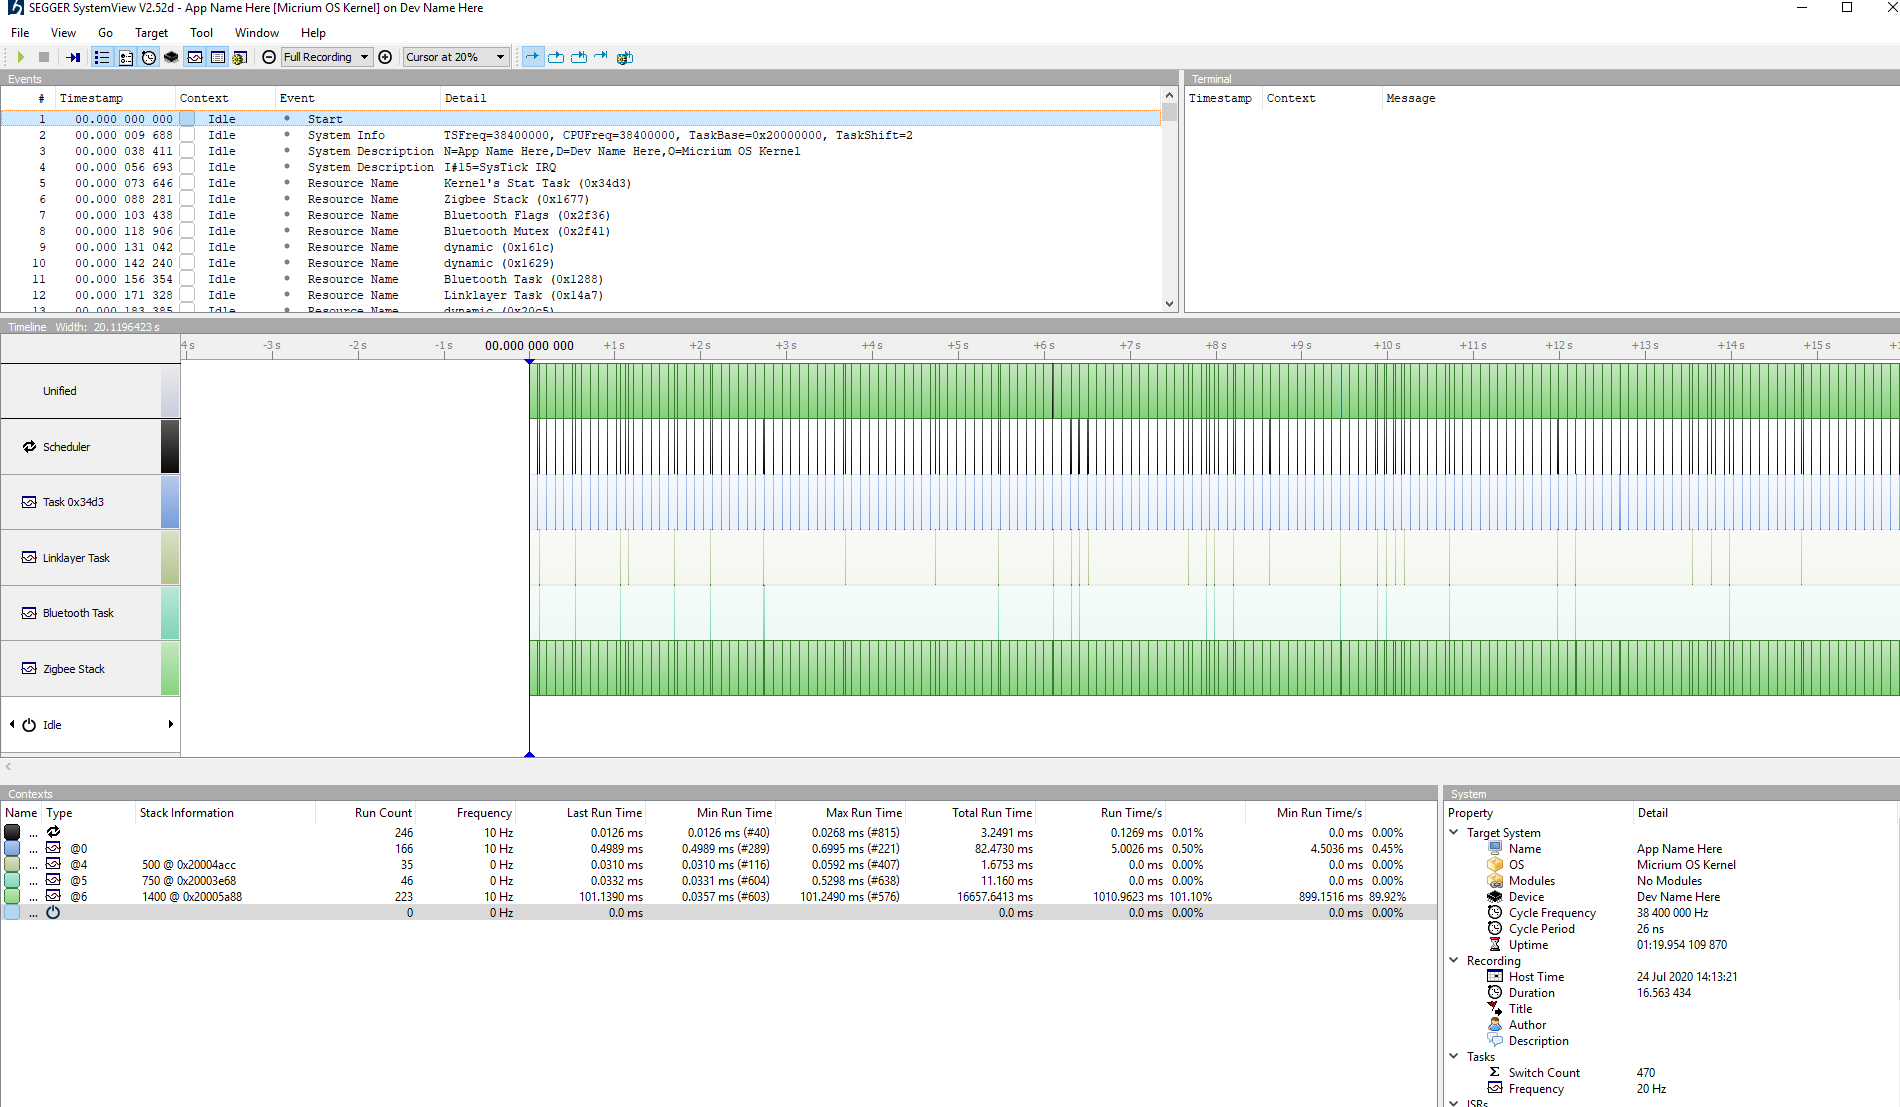
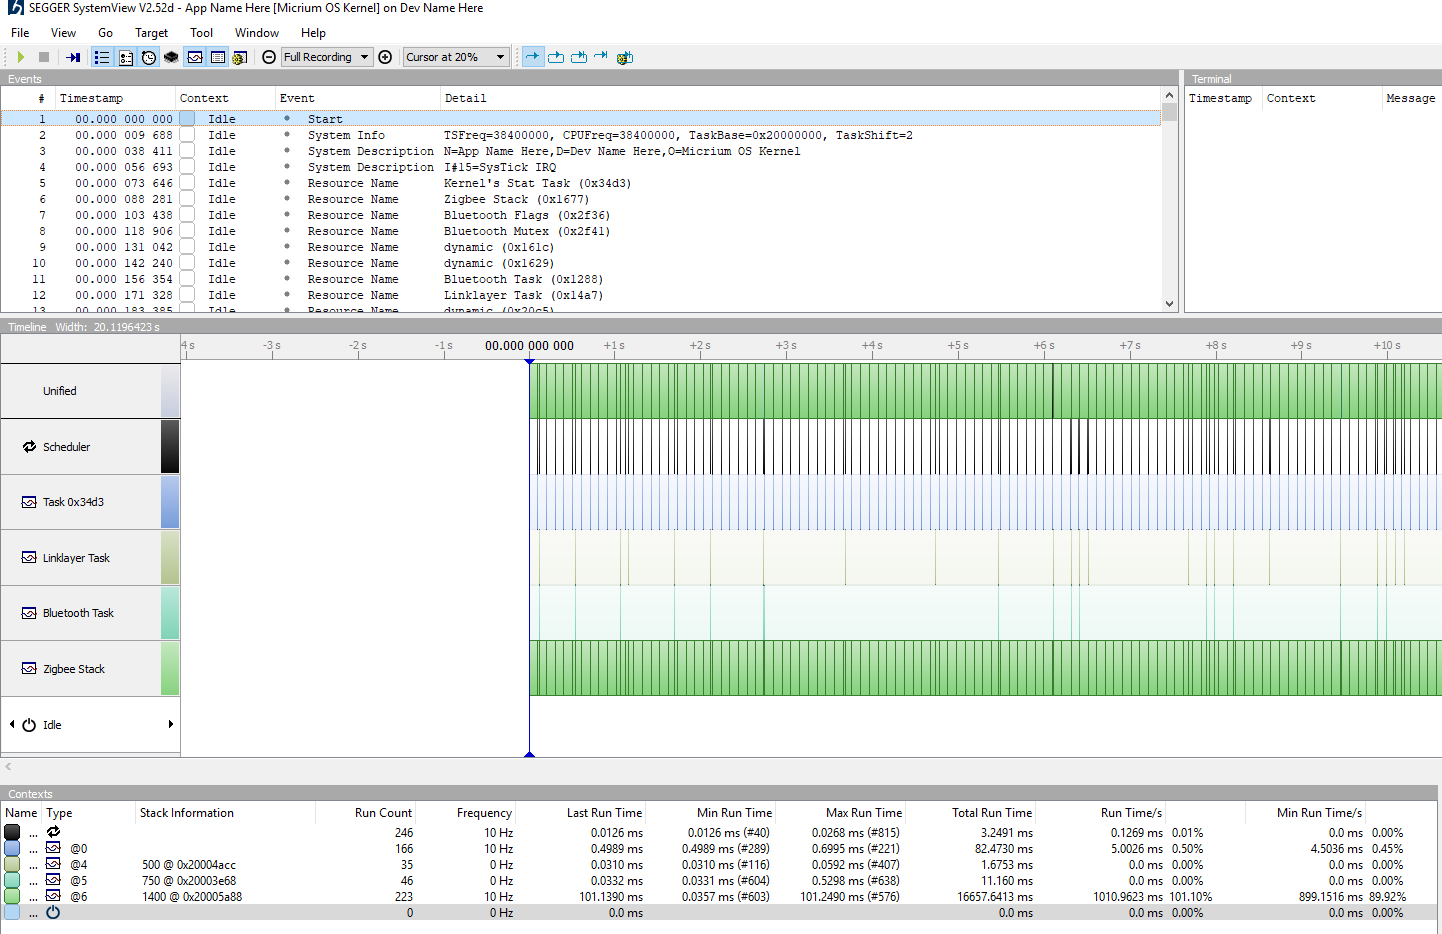
[DOC IMP]Resize the pictures and adjust the indent of the paragraph under the list

diff --git a/zigbee/Zigbee-Debugging-SystemView.md b/zigbee/Zigbee-Debugging-SystemView.md
@@ -29,89 +29,88 @@ EmberZnet has provided some DMP (Dynamic Multi-Protocol) sample projects which a
 4. Select our latest EmberZNet stack for SoC (It's "EmberZNet 6.7.6 GA SoC" when this document is written). Click Next.
 5. On the bottom, select “DynamicMultiprotocolLight”. Click Next.
 6. Name your project or keep it as is. Click Next.
-7. In next window (Project Setup), select board to BRD4162A.
-
-<div align="center">
-  <img src="files/ZB-Zigbee-Debugging-SystemView/Project-Setup.png">  
-</div>  
-</br>
-
-At the time when this document is written, only IAR is supported in Dynamic Multiprotocol sample projects. Please make sure you have installed IAR 8.30.1 or higher version and you need to get a valid license as well.
+7. In next window (Project Setup), select board to BRD4162A.  
+    <div align="center">
+      <img src="files/ZB-Zigbee-Debugging-SystemView/Project-Setup.png">  
+    </div>  
+    </br>
+    At the time when this document is written, only IAR is supported in Dynamic Multiprotocol sample projects. Please make sure you have installed IAR 8.30.1 or higher version and you need to get a valid license as well.  
 
 8. Save and generate your project.
 
 ## 2.2. Add SystemView Support
-Adding SystemView component to your project can be done by the following steps:
-1. Select your project in "Project Explorer", right click and select **New** -> **Foler**, click **Advanced**, choose **link to alternate location**, then click **Browse** to select the systemview folder in the SDK (`C:\SiliconLabs\SimplicityStudio\v4\developer\sdks\gecko_sdk_suite\v2.7\util\third_party\segger\systemview`), after that, click **Finish**.
+Adding SystemView component to your project can be done by the following steps:  
 
-<div align="center">
-  <img src="files/ZB-Zigbee-Debugging-SystemView/Add-SystemView.png">  
-</div>  
-</br>
+1. Select your project in "Project Explorer", right click and select **New** -> **Folder**, click **Advanced**, choose **link to alternate location**, then click **Browse** to select the systemview folder in the SDK (`C:\SiliconLabs\SimplicityStudio\v4\developer\sdks\gecko_sdk_suite\v2.7\util\third_party\segger\systemview`), after that, click **Finish**.
+
+    <div align="center">
+      <img src="files/ZB-Zigbee-Debugging-SystemView/Add-SystemView.png">  
+    </div>  
+    </br>
 
 2. There are some conflicted files. We need to resolve these conflicted files. In **Project Explorer**, find the file **debug-basic-library/EFR32/SEGGER_RTT.c**. Select this file, right click and select "Properties". In the pop dialog, exclude it from build. 
 
-<div align="center">
-  <img src="files/ZB-Zigbee-Debugging-SystemView/Exclude.png">  
-</div>  
-</br>
+    <div align="center">
+      <img src="files/ZB-Zigbee-Debugging-SystemView/Exclude.png">  
+    </div>  
+    </br>
 
-Another conflicted file is **systemview/SEGGER/SEGGER_RTT_ASM_ARMv7M.s**. Please exlcude it with the approach above.
+    Another conflicted file is **systemview/SEGGER/SEGGER_RTT_ASM_ARMv7M.s**. Please exlcude it with the approach above.
 
 3. Edit config file of Micrium OS. First find the file in included files, then edit it. 
 
-<div align="center">
-  <img src="files/ZB-Zigbee-Debugging-SystemView/os_cfg.png">  
-</div>  
-</br>
+    <div align="center">
+      <img src="files/ZB-Zigbee-Debugging-SystemView/os_cfg.png">  
+    </div>  
+    </br>
 
-When you see the **warning** dialog like below, please always choose **Make a Copy**.
+    When you see the **warning** dialog like below, please always choose **Make a Copy**.  
 
-<div align="center">
-  <img src="files/ZB-Zigbee-Debugging-SystemView/Make-a-Copy.png">  
-</div>  
-</br>
+    <div align="center">
+      <img src="files/ZB-Zigbee-Debugging-SystemView/Make-a-Copy.png">  
+    </div>  
+    </br>
 
-In this step, you need to modify the macro **OS_CFG_TRACE_EN** from **DEF_DISABLED** to **DEF_ENABLED**.
+    In this step, you need to modify the macro **OS_CFG_TRACE_EN** from **DEF_DISABLED** to **DEF_ENABLED**.  
 
-4. Add the path of **systemview** to the include file path list. Select the project in **Project Explorer**, right click and select "properties", add the following two directories into the included list.
+4. Add the path of **systemview** to the include file path list. Select the project in **Project Explorer**, right click and select "properties", add the following two directories into the included list.  
 
-```
-${StudioSdkPath}/util/third_party/segger/systemview/Sample/MicriumOSKernel
-${StudioSdkPath}/util/third_party/segger/systemview/Sample/MicriumOSKernel/Config
-```
+    ```
+    ${StudioSdkPath}/util/third_party/segger/systemview/Sample/MicriumOSKernel
+    ${StudioSdkPath}/util/third_party/segger/systemview/Sample/MicriumOSKernel/Config
+    ```
 
-<div align="center">
-  <img src="files/ZB-Zigbee-Debugging-SystemView/include.png">  
-</div>  
-</br>
+    <div align="center">
+      <img src="files/ZB-Zigbee-Debugging-SystemView/include.png">  
+    </div>  
+    </br>
 
 5. Build the project and flash it into your device.
 
 # 3. Run and Test
 1. Press ![](files/ZB-Zigbee-Debugging-SystemView/SystemView-Toolbar.png) in tool bar to start Segger SystemView. Press the icon ![](files/ZB-Zigbee-Debugging-SystemView/icon_start.png) to start.
 
-<div align="center">
-  <img src="files/ZB-Zigbee-Debugging-SystemView/SystemView-Mainframe.png">  
-</div>  
-</br>
+    <div align="center">
+      <img src="files/ZB-Zigbee-Debugging-SystemView/SystemView-Mainframe.png">  
+    </div>  
+    </br>
+    &nbsp;   
 
-2. Find the address of the global variable `_SEGGER_RTT` in map file, and fill it in the **RTT Control Block Field**. 
+2. Find the address of the global variable `_SEGGER_RTT` in map file, and fill it in the **RTT Control Block Field**. Open the map file, search the symbol `_SEGGER_RTT`, you will get the address of the `RTT Control Block`:
+    ```
+    _SEGGER_RTT             0x2003'3688    0xa8  Data  Gb  SEGGER_RTT.o [49]
+    ```
 
-Open the map file, search the symbol `_SEGGER_RTT`, you will get the address of the `RTT Control Block`:
-```
-_SEGGER_RTT             0x2003'3688    0xa8  Data  Gb  SEGGER_RTT.o [49]
-```
+    <div align="center">
+      <img src="files/ZB-Zigbee-Debugging-SystemView/SystemView-cfg.png">  
+    </div>  
+    </br>
+    &nbsp;   
 
-<div align="center">
-  <img src="files/ZB-Zigbee-Debugging-SystemView/SystemView-cfg.png">  
-</div>  
-</br>
+3. Select OK, then select the J-Link debugger. You will see the task switching trace.  
 
-3. Select OK, then select the J-Link debugger. You will see the task switching trace.
-
-<div align="center">
-  <img src="files/ZB-Zigbee-Debugging-SystemView/SystemView-Running.png">  
-</div>  
-</br>
+    <div align="center">
+      <img src="files/ZB-Zigbee-Debugging-SystemView/SystemView-Running.png">  
+    </div>  
+    </br>
 
